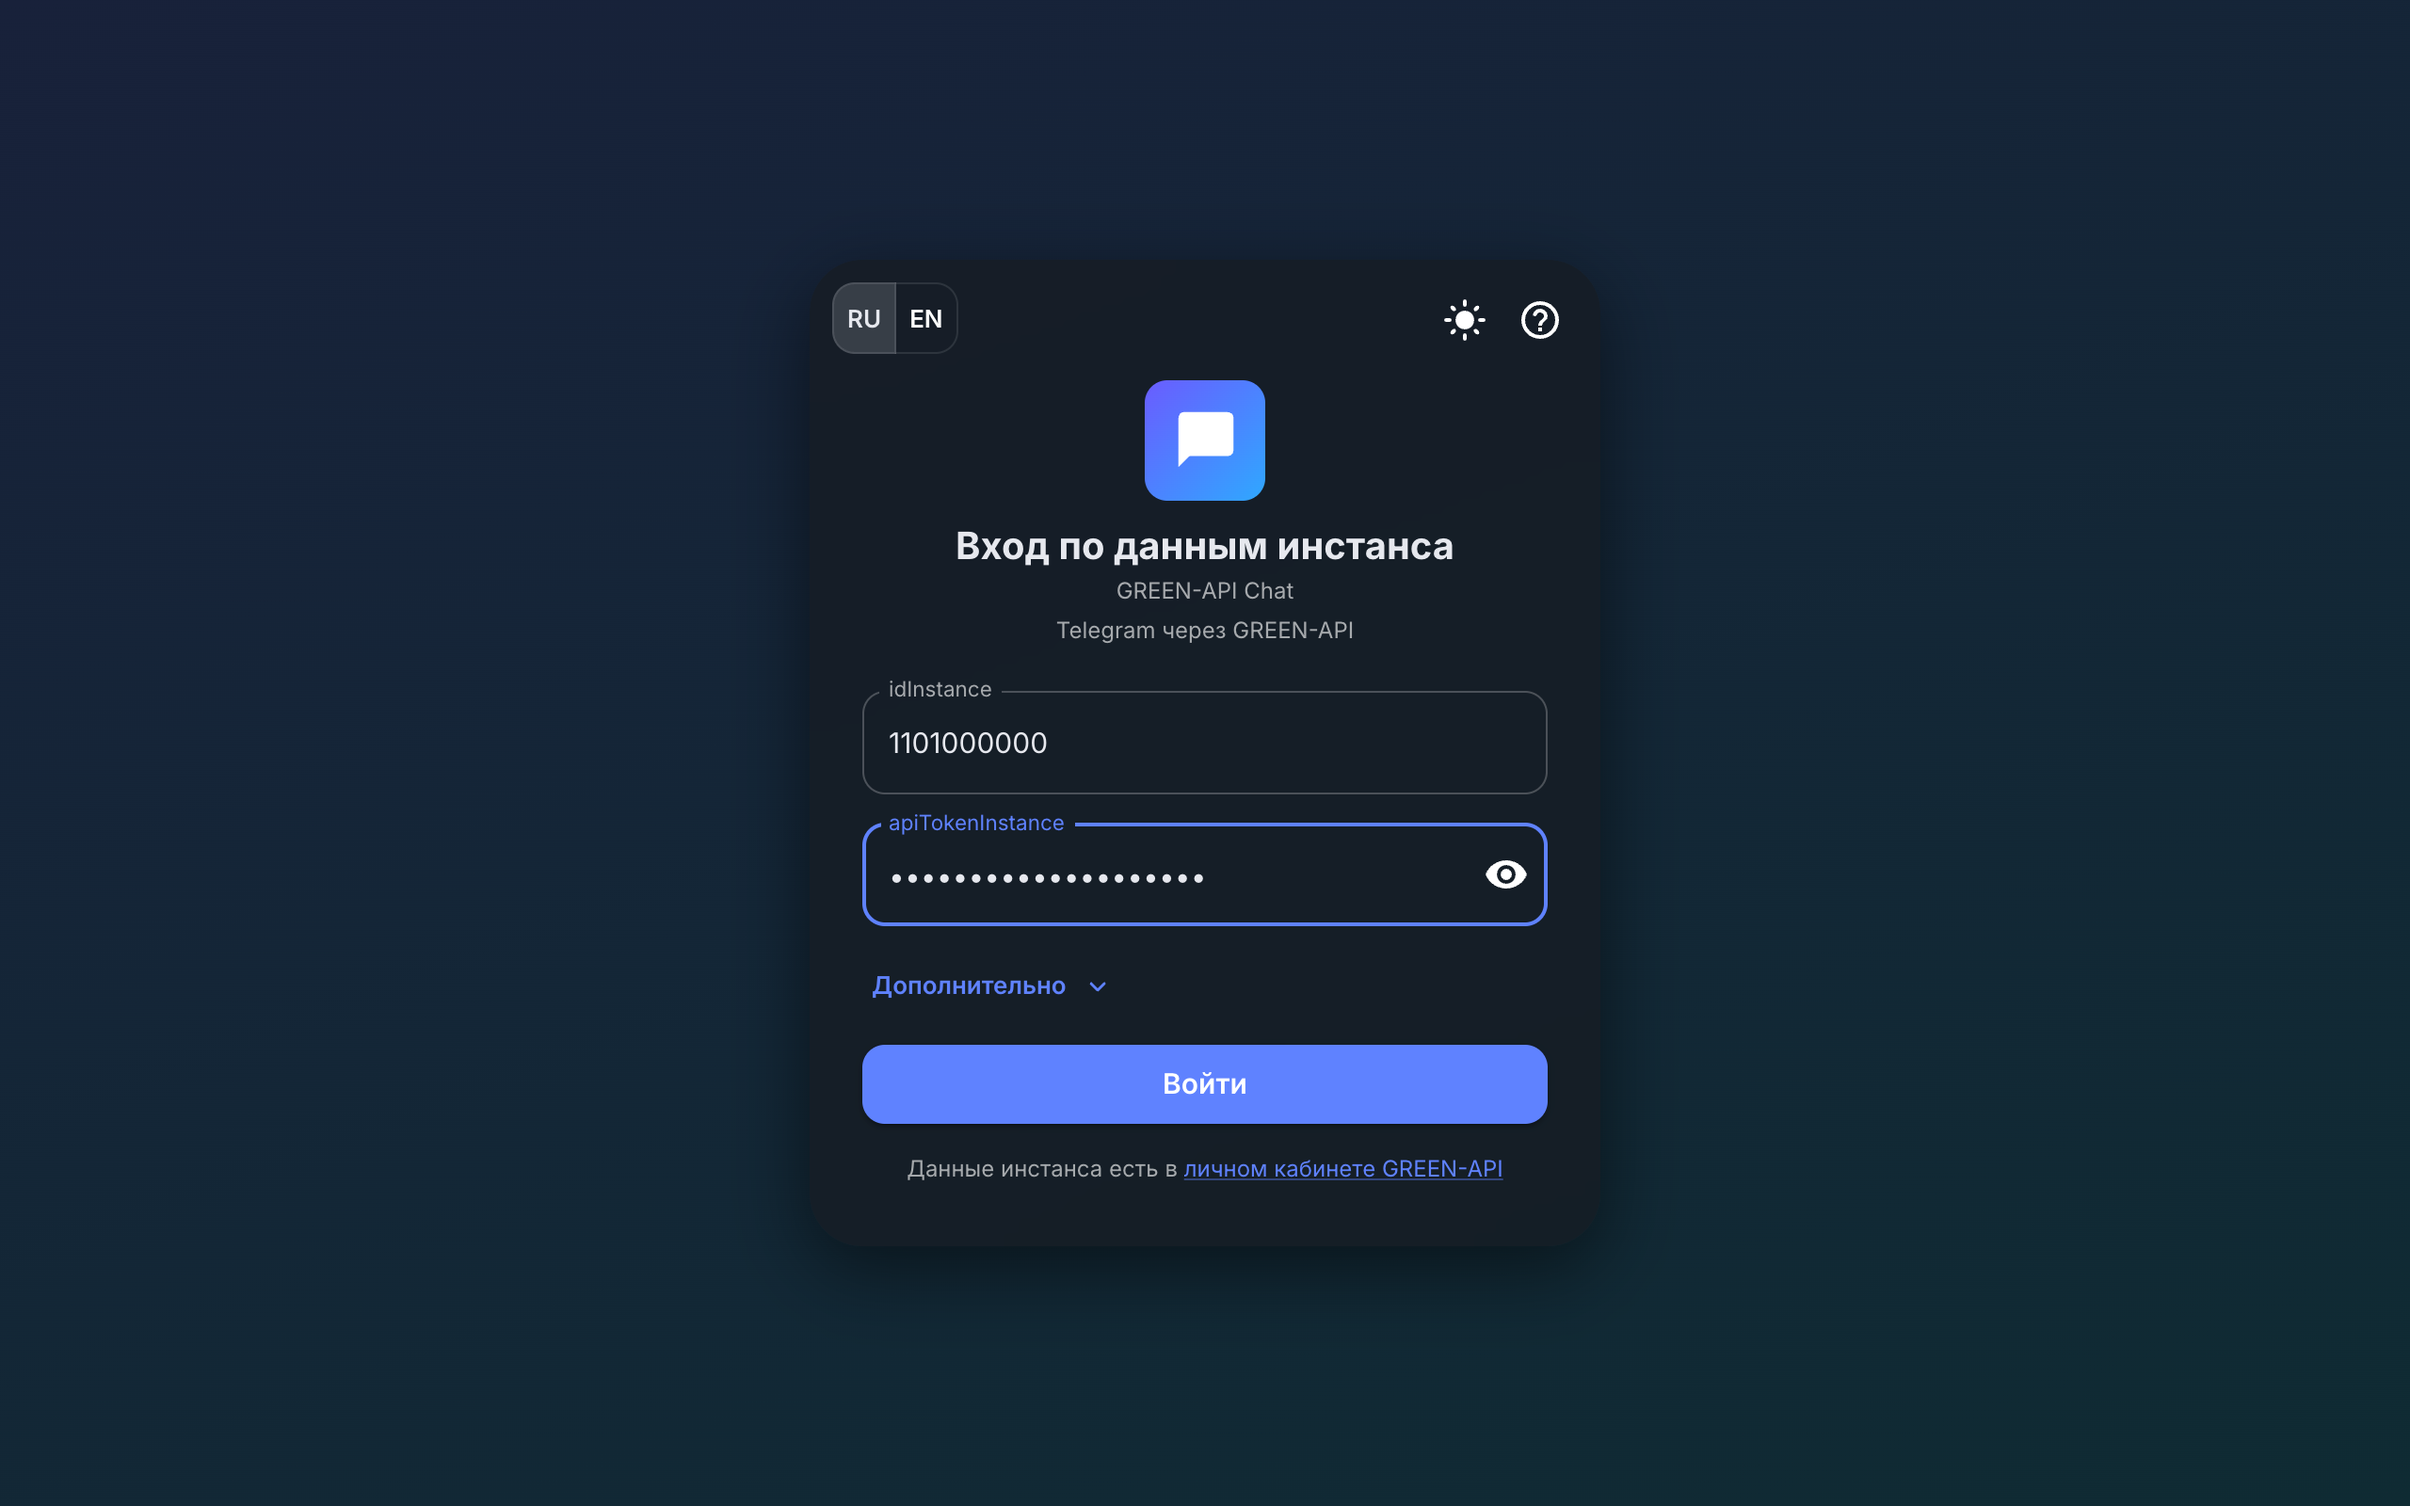
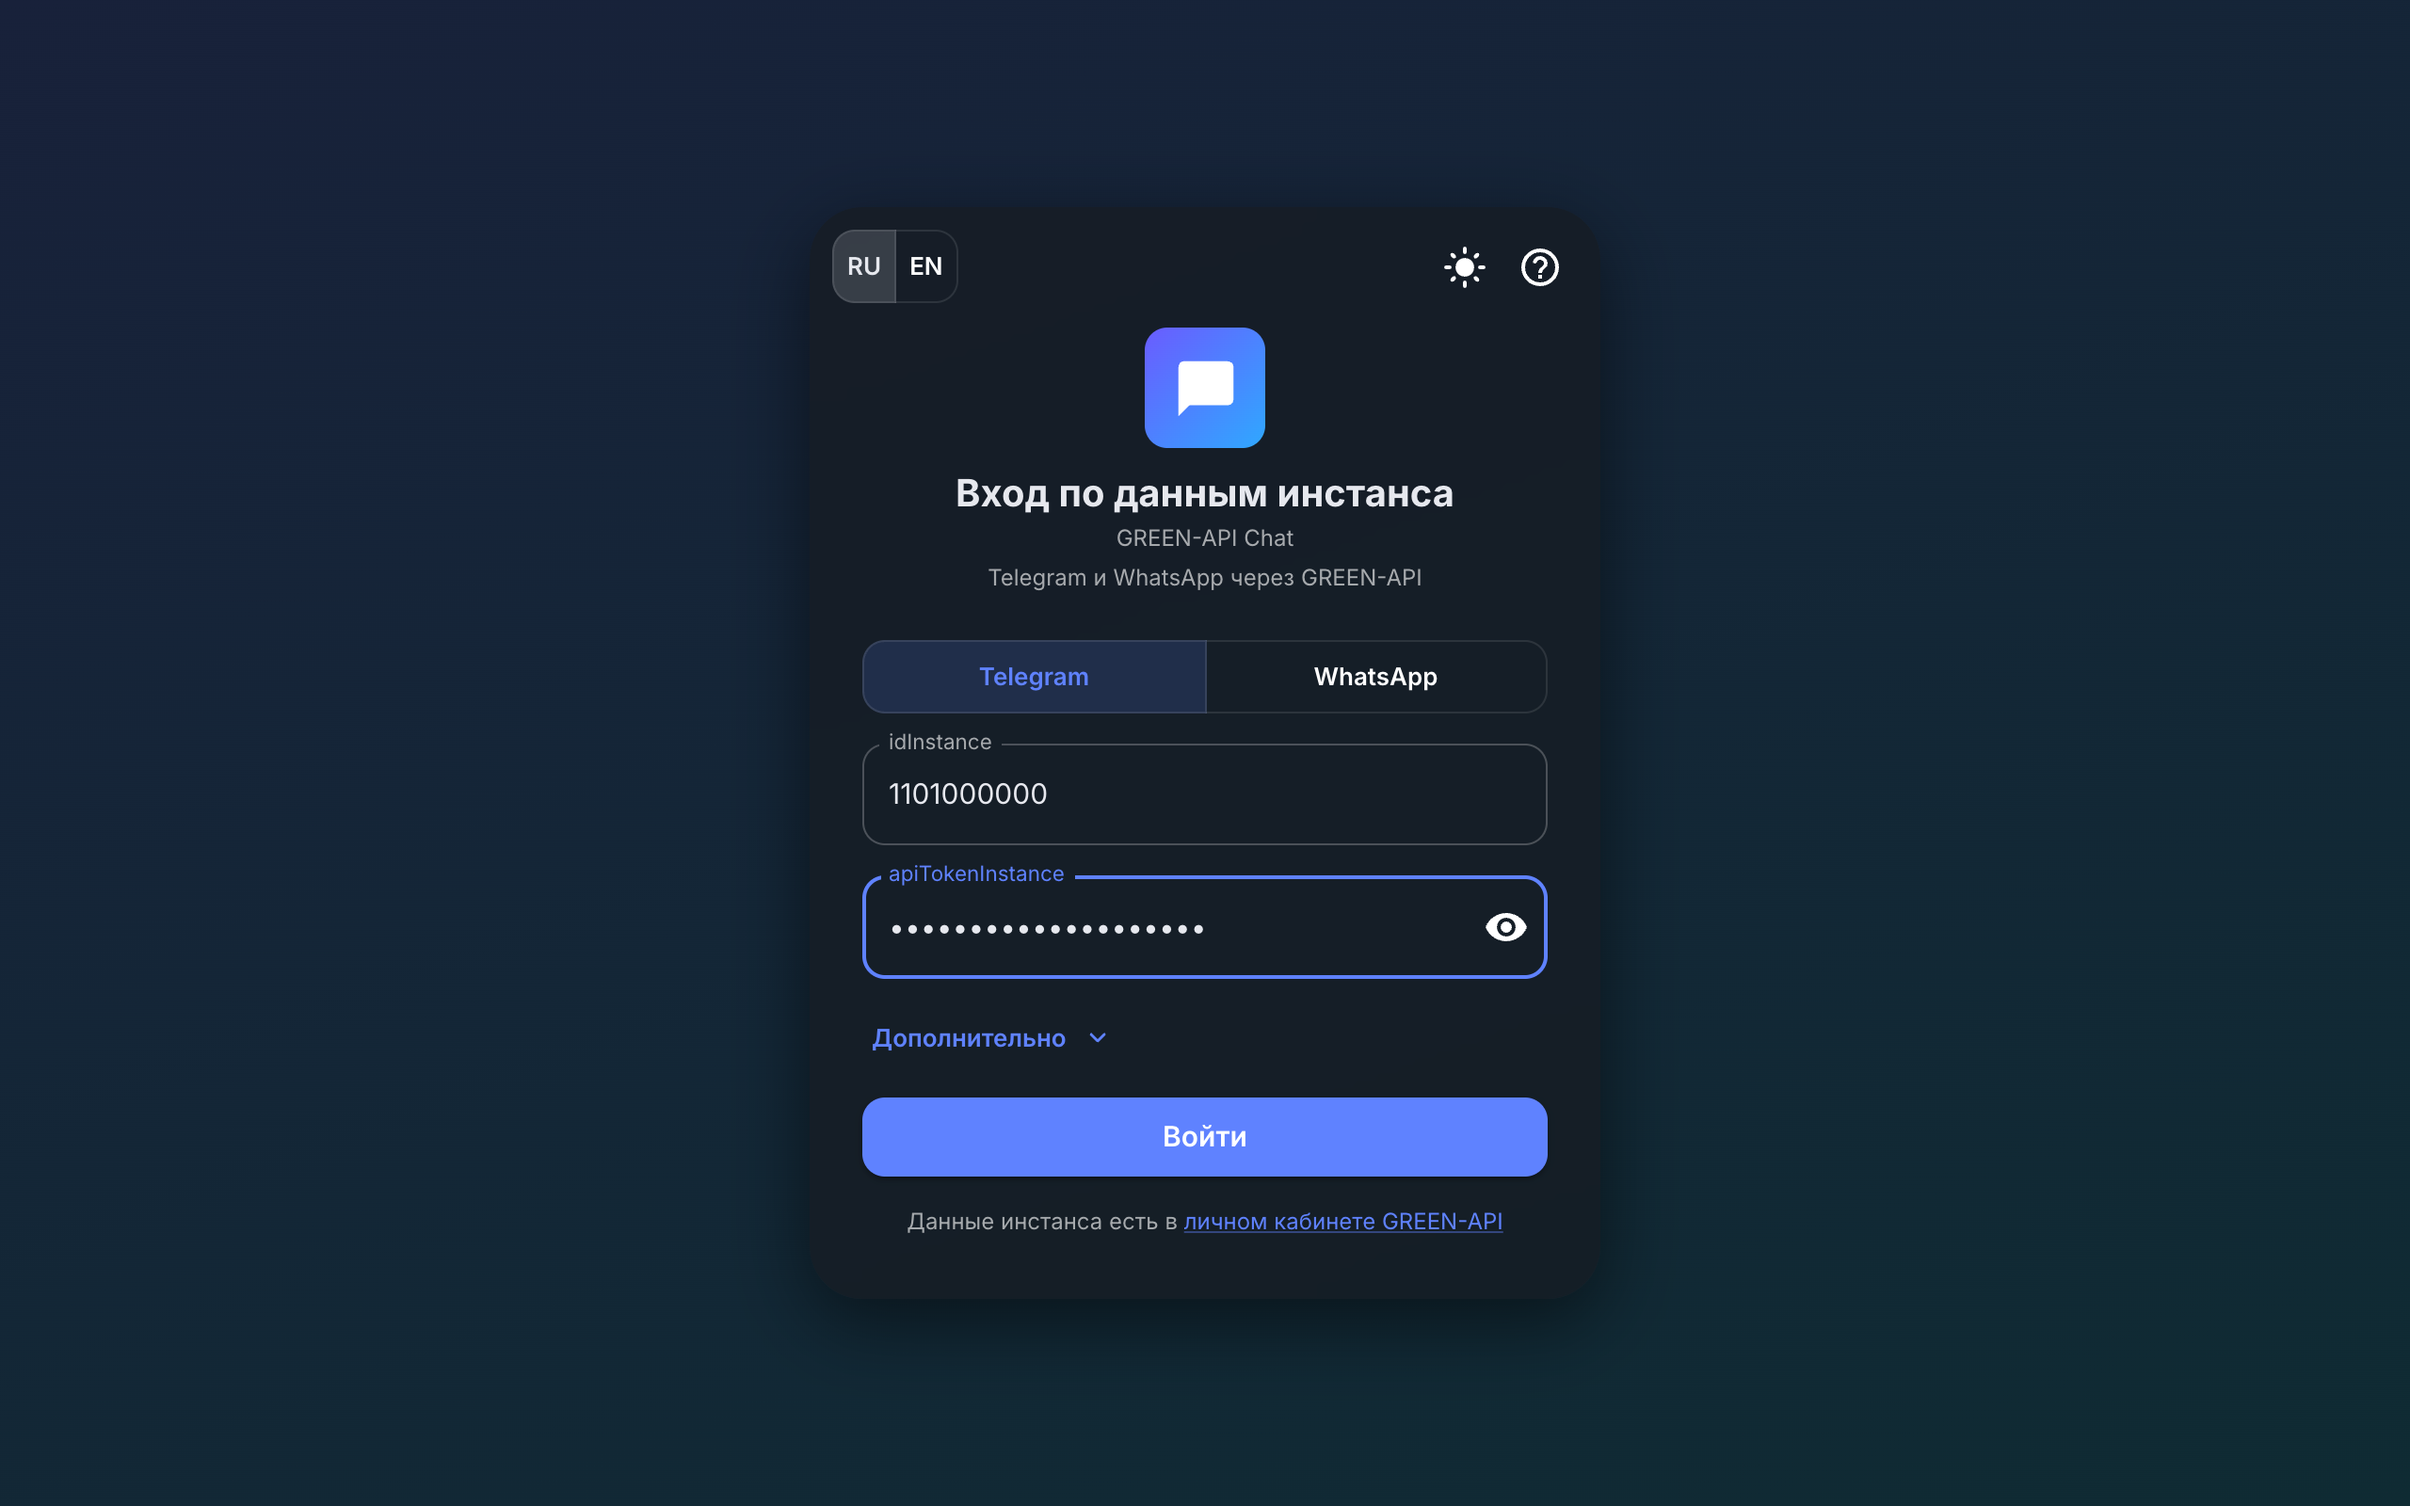
docs: describe WhatsApp support and refresh the login screenshots

Changed region(s): [[0.3438, 0.2188, 0.6562, 0.8438], [0.5938, 0.1562, 0.6562, 0.2188], [0.3438, 0.1562, 0.4062, 0.25]]

diff --git a/README.md b/README.md
@@ -1,6 +1,6 @@
 # GREEN-API Chat
 
-Веб-чат для отправки и получения текстовых сообщений в Telegram через [GREEN-API](https://green-api.com/telegram). Тестовое задание на позицию «Фронтенд разработчик React». Внешний вид сделан по мотивам [web.max.ru](https://web.max.ru/).
+Веб-чат для отправки и получения текстовых сообщений в Telegram и WhatsApp через [GREEN-API](https://green-api.com/). Тестовое задание на позицию «Фронтенд разработчик React». Внешний вид сделан по мотивам [web.max.ru](https://web.max.ru/).
 
 **Онлайн-версия:** https://green-apitesttask-lac.vercel.app/
 
@@ -22,8 +22,8 @@
 
 ## Что умеет
 
-1. Вход по `idInstance` и `apiTokenInstance` из личного кабинета GREEN-API. Опечатки ловятся сразу под полем (`idInstance` — только цифры, `apiUrl` — адрес `https://…`), а верность данных проверяет сервер. Перед входом проверяется, что данные верные и к инстансу привязан аккаунт Telegram (`getStateInstance`).
-2. Новый чат по номеру телефона в любом формате (`+375 (29) 123-45-67`) или по `@username`. Номер переводится в `chatId` методом `checkAccount`.
+1. Вход по `idInstance` и `apiTokenInstance` из личного кабинета GREEN-API. Опечатки ловятся сразу под полем (`idInstance` — только цифры, `apiUrl` — адрес `https://…`), а верность данных проверяет сервер. Перед входом проверяется, что данные верные и к инстансу привязан аккаунт мессенджера (`getStateInstance`). Мессенджер выбирается на экране входа: Telegram (по умолчанию) или WhatsApp.
+2. Новый чат по номеру телефона в любом формате (`+375 (29) 123-45-67`). В Telegram можно ещё и по `@username`. Telegram: номер переводится в `chatId` методом `checkAccount`. WhatsApp: номер проверяется методом `checkWhatsapp`, а чат адресуется как `номер@c.us`.
 3. Отправка текстовых сообщений — `sendMessage`.
 4. Получение сообщений через HTTP API — `receiveNotification` + `deleteNotification`. Если человек написал первым, чат появится сам.
 5. История чата подтягивается при открытии (`getChatHistory`), пока она грузится — показывается скелетон.
@@ -33,6 +33,7 @@
 9. Разделители по дням в переписке; чат не прокручивается вниз, пока вы читаете историю.
 10. Плашка «Нет связи», если не удаётся получить сообщения; она исчезает, как только связь восстановилась.
 11. Светлая и тёмная тема: по умолчанию как в системе, выбор сохраняется. Режим темы хранится в Zustand (`useAppStore`), цвета чата лежат в палитре темы MUI.
+12. Два мессенджера: Telegram и WhatsApp выбираются на входе. Остальное (отправка, приём, история) у них общее. Для WhatsApp проверка номера и формат `chatId` реализованы по документации GREEN-API, на живом инстансе ещё не проверялись.
 
 ## Стек
 
@@ -77,12 +78,12 @@ GREEN-API складывает входящие события в очередь
 
 ## Подготовка инстанса GREEN-API
 
-1. Зарегистрируйтесь в [личном кабинете](https://console.green-api.com) и создайте инстанс Telegram (бесплатный тариф «Разработчик»).
-2. Привяжите аккаунт: в Telegram на телефоне откройте «Настройки → Устройства → Подключить устройство» и отсканируйте QR-код инстанса.
+1. Зарегистрируйтесь в [личном кабинете](https://console.green-api.com) и создайте инстанс Telegram или WhatsApp (бесплатный тариф «Разработчик»).
+2. Привяжите аккаунт: в Telegram на телефоне откройте «Настройки → Устройства → Подключить устройство», в WhatsApp — «Связанные устройства», и отсканируйте QR-код инстанса.
 3. В настройках инстанса должны быть включены входящие уведомления, а поле `webhookUrl` — пустым (иначе события уходят на вебхук, а не в очередь HTTP API).
 4. Скопируйте `idInstance`, `apiTokenInstance` и `apiUrl`.
 
-Для проверки ответа нужен второй аккаунт Telegram: ему пишем из чата, с него отвечаем. Если у второго аккаунта в настройках приватности скрыт поиск по номеру, создайте чат по `@username`.
+Для проверки ответа нужен второй аккаунт того же мессенджера: ему пишем из чата, с него отвечаем. В Telegram, если у второго аккаунта скрыт поиск по номеру, создайте чат по `@username`.
 
 ## Локальный запуск
 
@@ -106,7 +107,7 @@ pnpm preview      # посмотреть сборку локально
 
 ## Тесты
 
-80 тестов на Vitest + Testing Library:
+86 тестов на Vitest + Testing Library:
 
 - `lib/` — разбор номера телефона, уведомлений и истории;
 - `api/` — правильные адреса и тела запросов к GREEN-API;
